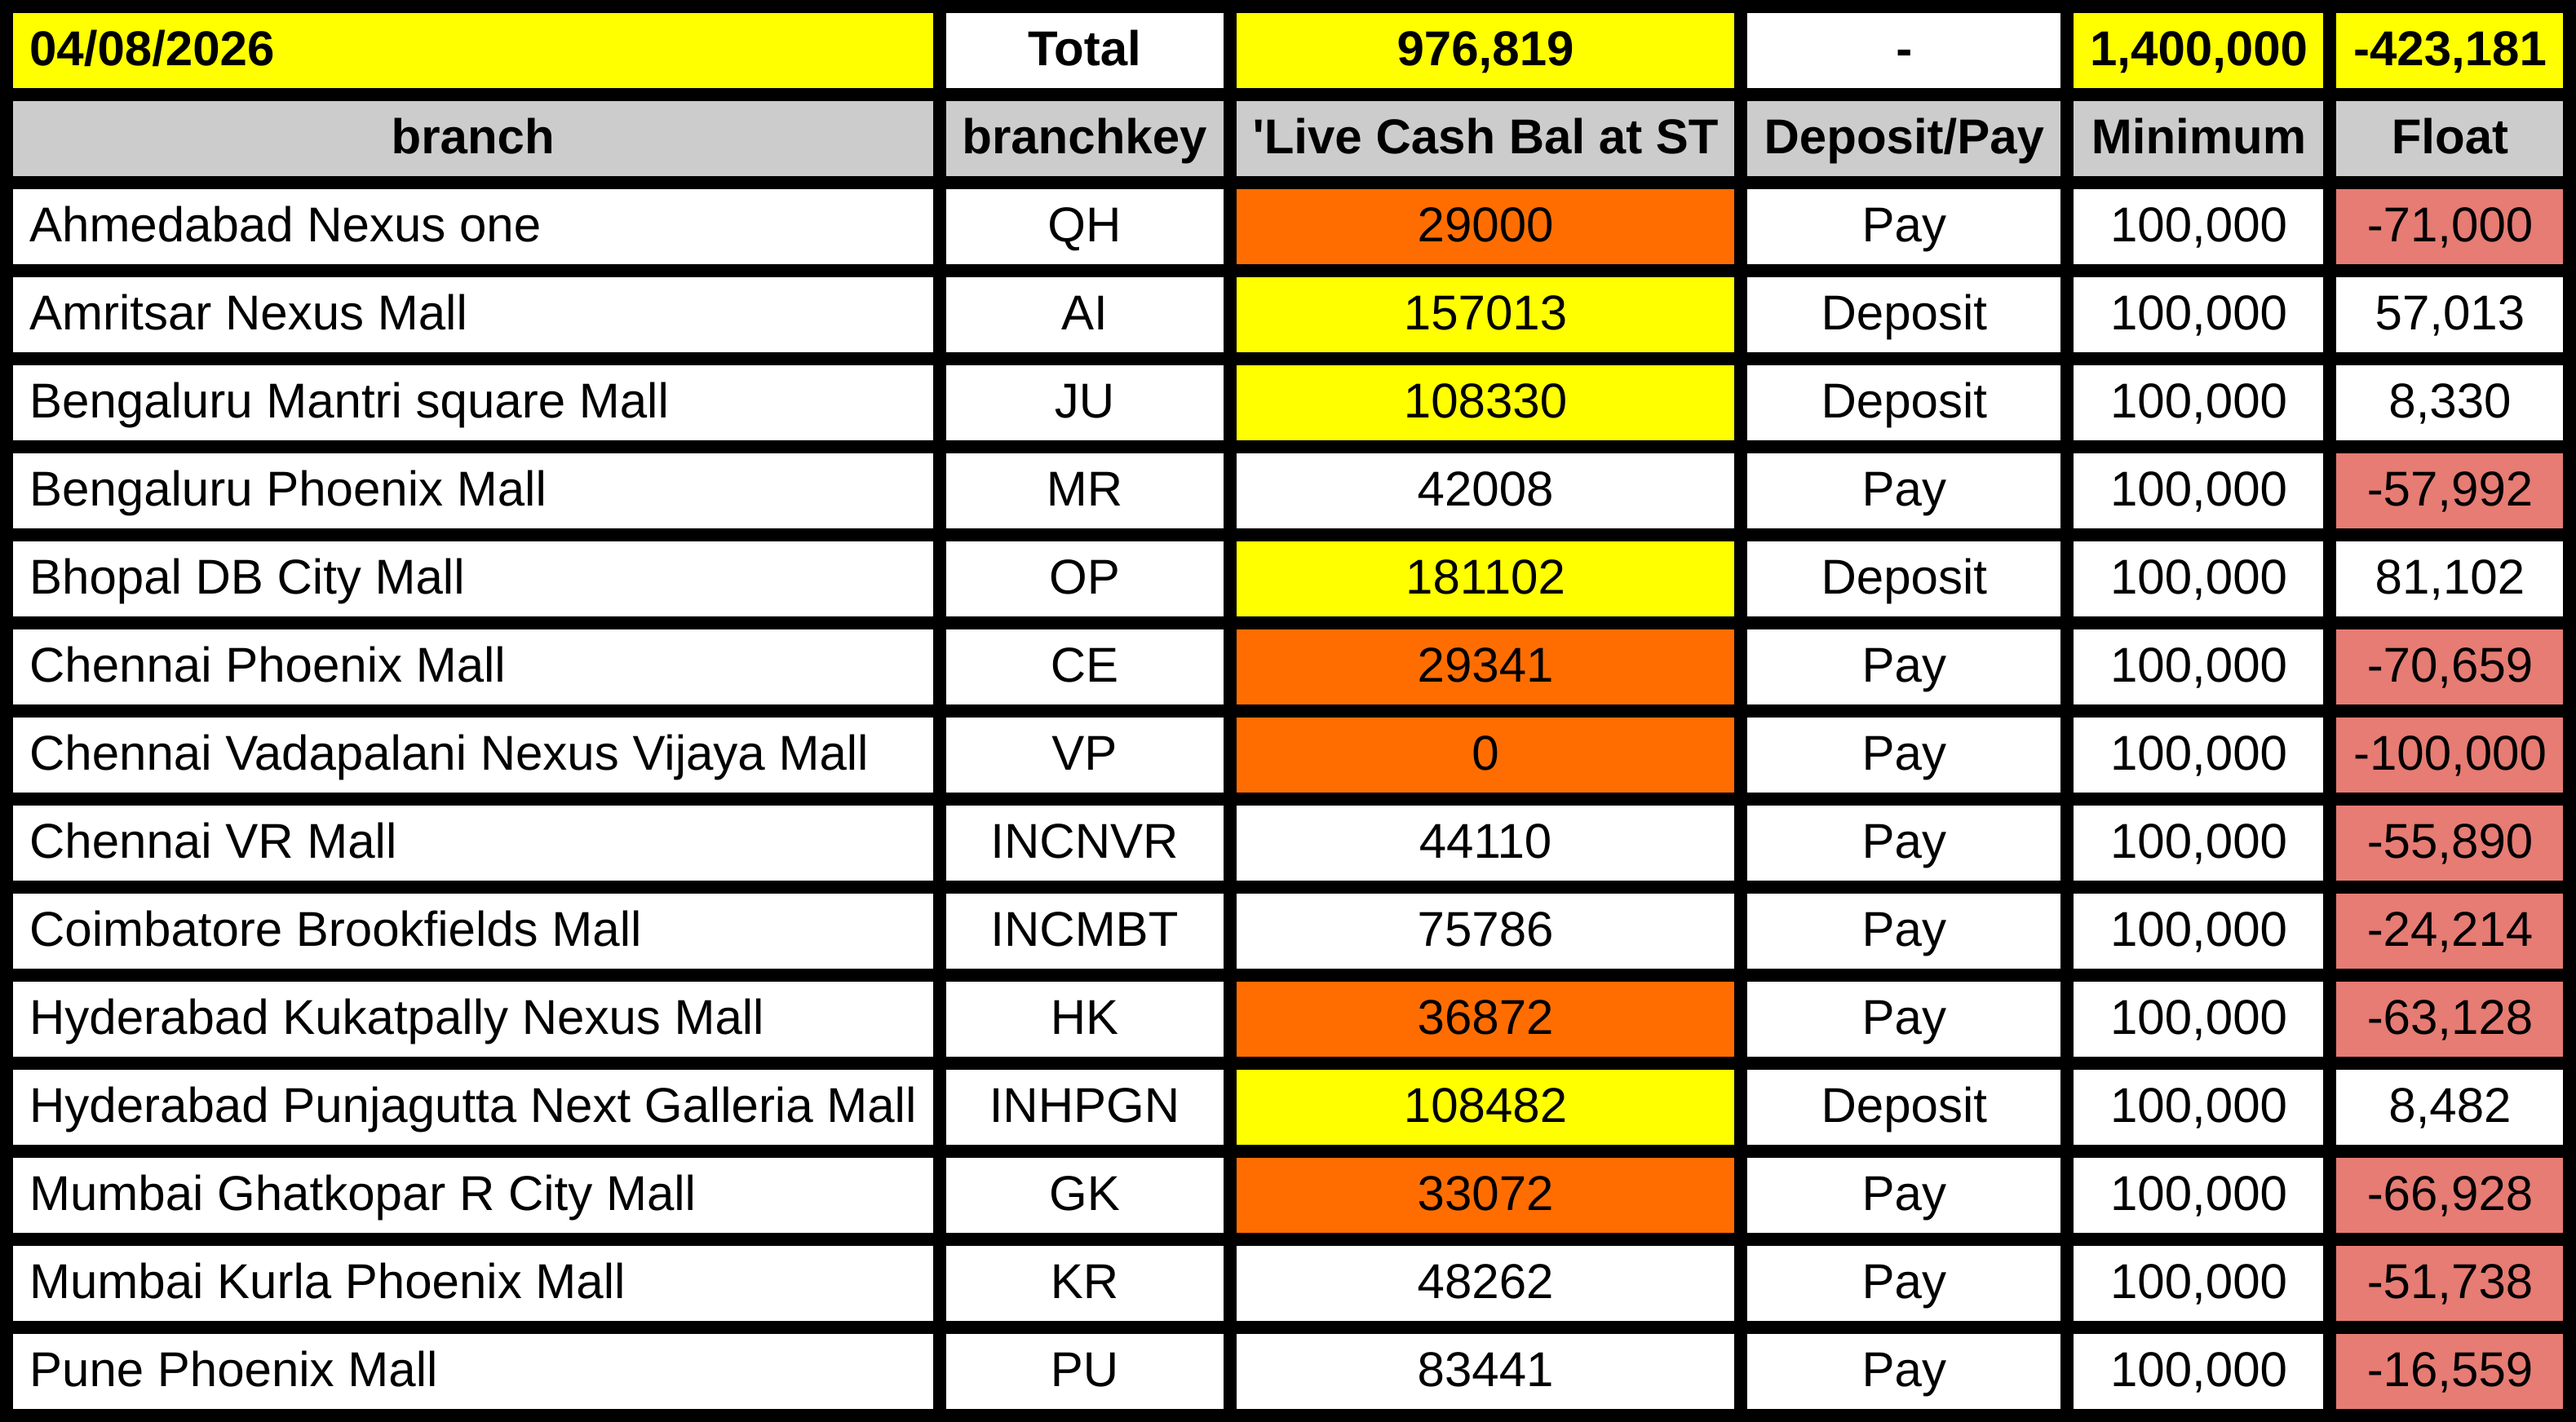
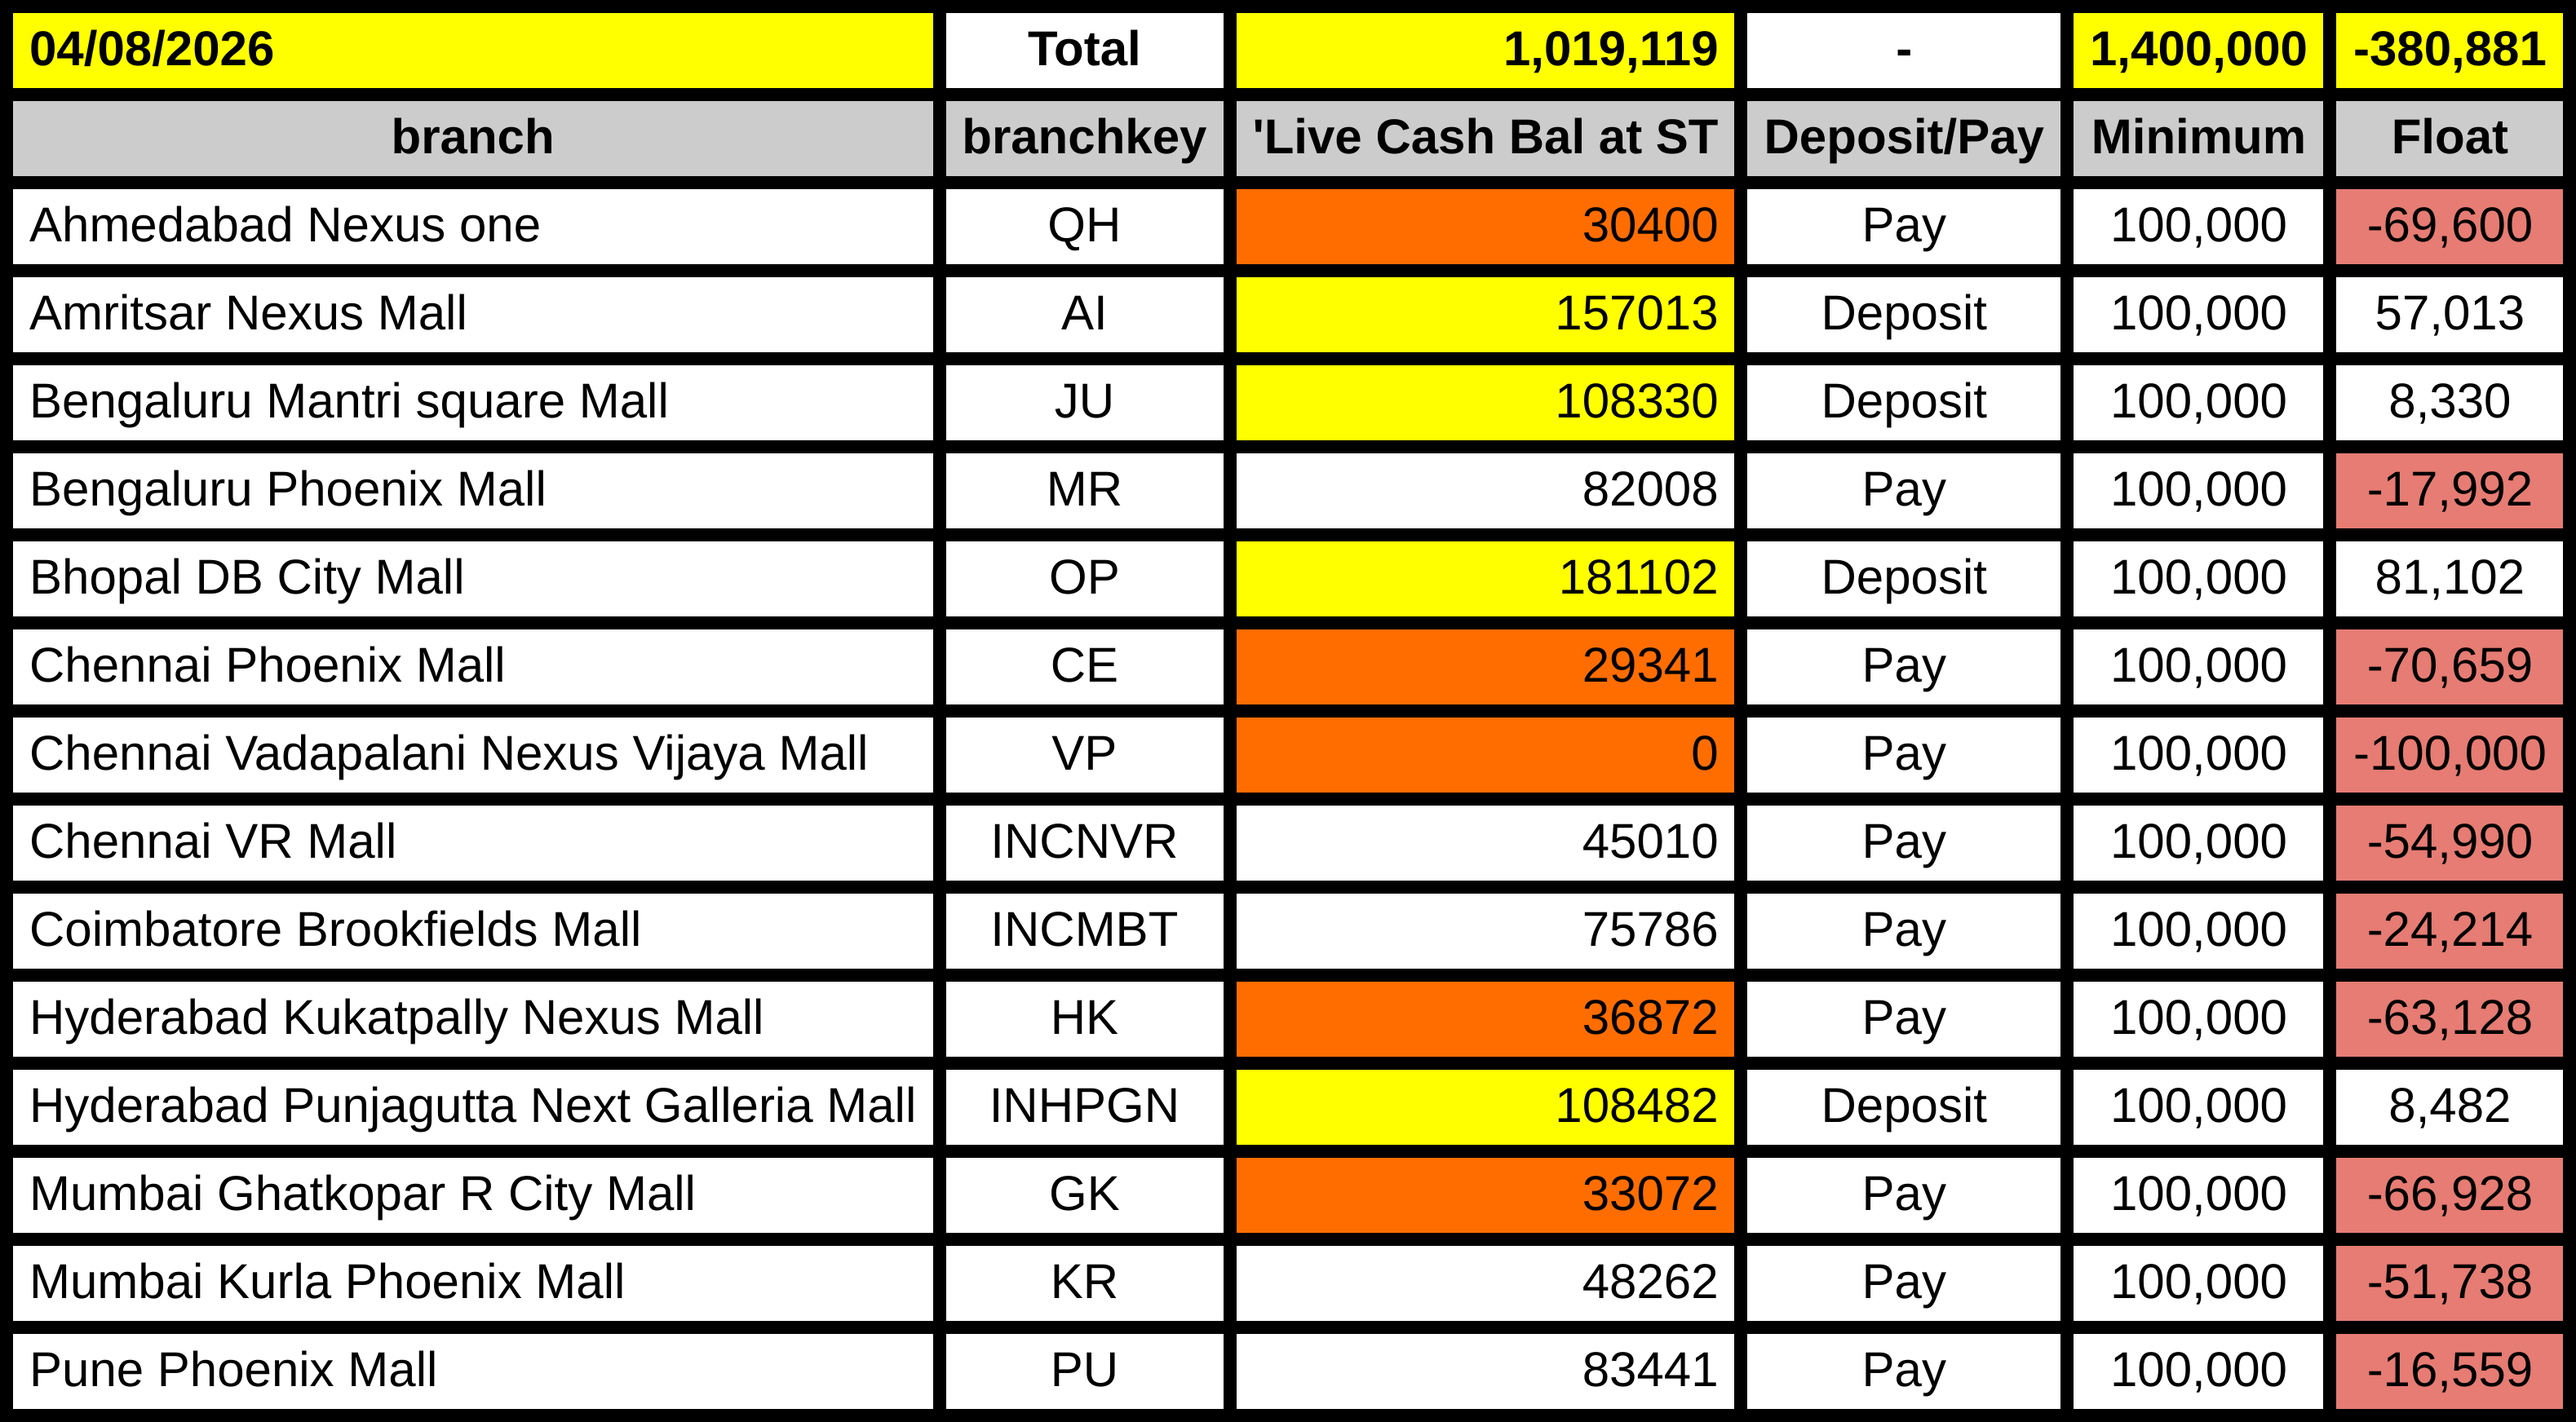
deploy: c89e5a6731cee7453f920e59d0c76fc1f3b84394

diff --git a/table.html b/table.html
@@ -42,14 +42,14 @@
           color: #000000;
           font-weight: bold;
           font-style: normal;
-          text-align: center;
+          text-align: right;
           width: 150px;
           padding: 6px 10px;
           border: 8px solid #000000;
           font-family: Arial, sans-serif;
           font-size: 30px;
           white-space: nowrap;
-        ">976,819</td>
+        ">1,019,119</td>
       
         <td style="
           background-color: #ffffff;
@@ -91,7 +91,7 @@
           font-family: Arial, sans-serif;
           font-size: 30px;
           white-space: nowrap;
-        ">-423,181</td>
+        ">-380,881</td>
       </tr><tr>
         <td style="
           background-color: #cccccc;
@@ -126,7 +126,7 @@
           color: #000000;
           font-weight: bold;
           font-style: normal;
-          text-align: center;
+          text-align: right;
           width: 150px;
           padding: 6px 10px;
           border: 8px solid #000000;
@@ -210,14 +210,14 @@
           color: #000000;
           font-weight: normal;
           font-style: normal;
-          text-align: center;
+          text-align: right;
           width: 150px;
           padding: 6px 10px;
           border: 8px solid #000000;
           font-family: Arial, sans-serif;
           font-size: 30px;
           white-space: nowrap;
-        ">29000</td>
+        ">30400</td>
       
         <td style="
           background-color: #ffffff;
@@ -259,7 +259,7 @@
           font-family: Arial, sans-serif;
           font-size: 30px;
           white-space: nowrap;
-        ">-71,000</td>
+        ">-69,600</td>
       </tr><tr>
         <td style="
           background-color: #ffffff;
@@ -294,7 +294,7 @@
           color: #000000;
           font-weight: normal;
           font-style: normal;
-          text-align: center;
+          text-align: right;
           width: 150px;
           padding: 6px 10px;
           border: 8px solid #000000;
@@ -378,7 +378,7 @@
           color: #000000;
           font-weight: normal;
           font-style: normal;
-          text-align: center;
+          text-align: right;
           width: 150px;
           padding: 6px 10px;
           border: 8px solid #000000;
@@ -462,14 +462,14 @@
           color: #000000;
           font-weight: normal;
           font-style: normal;
-          text-align: center;
+          text-align: right;
           width: 150px;
           padding: 6px 10px;
           border: 8px solid #000000;
           font-family: Arial, sans-serif;
           font-size: 30px;
           white-space: nowrap;
-        ">42008</td>
+        ">82008</td>
       
         <td style="
           background-color: #ffffff;
@@ -511,7 +511,7 @@
           font-family: Arial, sans-serif;
           font-size: 30px;
           white-space: nowrap;
-        ">-57,992</td>
+        ">-17,992</td>
       </tr><tr>
         <td style="
           background-color: #ffffff;
@@ -546,7 +546,7 @@
           color: #000000;
           font-weight: normal;
           font-style: normal;
-          text-align: center;
+          text-align: right;
           width: 150px;
           padding: 6px 10px;
           border: 8px solid #000000;
@@ -630,7 +630,7 @@
           color: #000000;
           font-weight: normal;
           font-style: normal;
-          text-align: center;
+          text-align: right;
           width: 150px;
           padding: 6px 10px;
           border: 8px solid #000000;
@@ -714,7 +714,7 @@
           color: #000000;
           font-weight: normal;
           font-style: normal;
-          text-align: center;
+          text-align: right;
           width: 150px;
           padding: 6px 10px;
           border: 8px solid #000000;
@@ -798,14 +798,14 @@
           color: #000000;
           font-weight: normal;
           font-style: normal;
-          text-align: center;
+          text-align: right;
           width: 150px;
           padding: 6px 10px;
           border: 8px solid #000000;
           font-family: Arial, sans-serif;
           font-size: 30px;
           white-space: nowrap;
-        ">44110</td>
+        ">45010</td>
       
         <td style="
           background-color: #ffffff;
@@ -847,7 +847,7 @@
           font-family: Arial, sans-serif;
           font-size: 30px;
           white-space: nowrap;
-        ">-55,890</td>
+        ">-54,990</td>
       </tr><tr>
         <td style="
           background-color: #ffffff;
@@ -882,7 +882,7 @@
           color: #000000;
           font-weight: normal;
           font-style: normal;
-          text-align: center;
+          text-align: right;
           width: 150px;
           padding: 6px 10px;
           border: 8px solid #000000;
@@ -966,7 +966,7 @@
           color: #000000;
           font-weight: normal;
           font-style: normal;
-          text-align: center;
+          text-align: right;
           width: 150px;
           padding: 6px 10px;
           border: 8px solid #000000;
@@ -1050,7 +1050,7 @@
           color: #000000;
           font-weight: normal;
           font-style: normal;
-          text-align: center;
+          text-align: right;
           width: 150px;
           padding: 6px 10px;
           border: 8px solid #000000;
@@ -1134,7 +1134,7 @@
           color: #000000;
           font-weight: normal;
           font-style: normal;
-          text-align: center;
+          text-align: right;
           width: 150px;
           padding: 6px 10px;
           border: 8px solid #000000;
@@ -1218,7 +1218,7 @@
           color: #000000;
           font-weight: normal;
           font-style: normal;
-          text-align: center;
+          text-align: right;
           width: 150px;
           padding: 6px 10px;
           border: 8px solid #000000;
@@ -1302,7 +1302,7 @@
           color: #000000;
           font-weight: normal;
           font-style: normal;
-          text-align: center;
+          text-align: right;
           width: 150px;
           padding: 6px 10px;
           border: 8px solid #000000;
